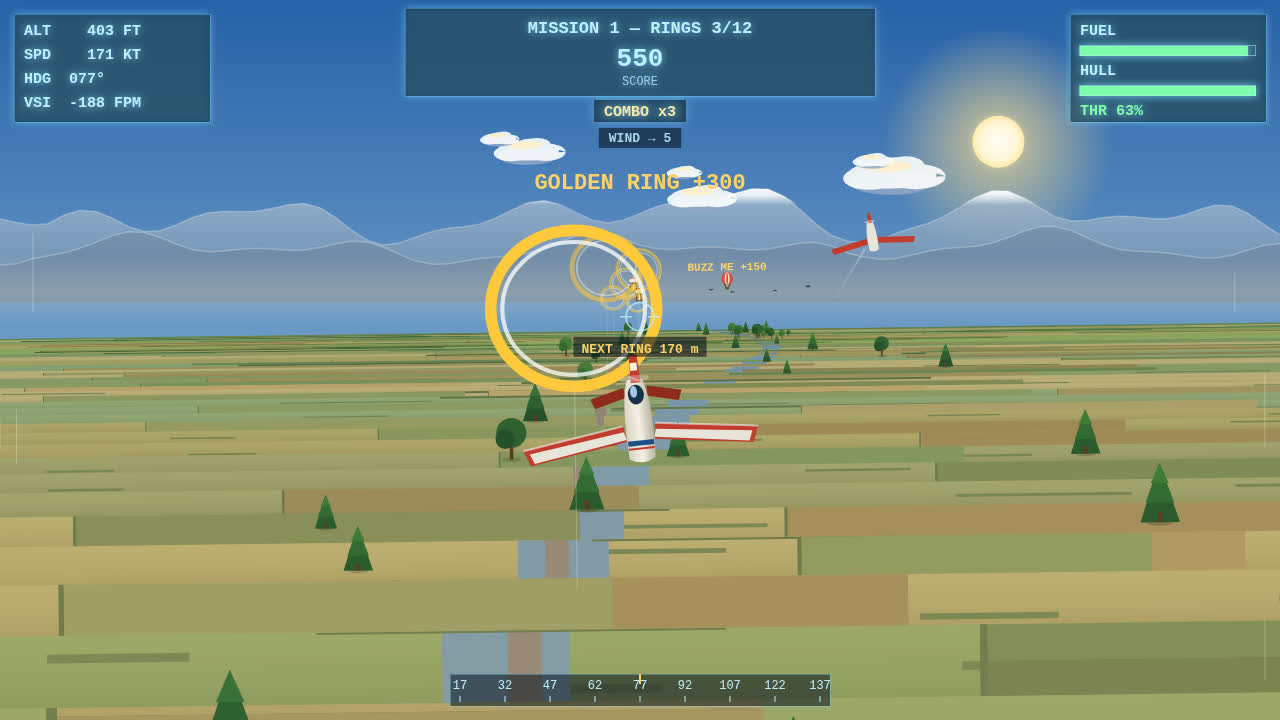
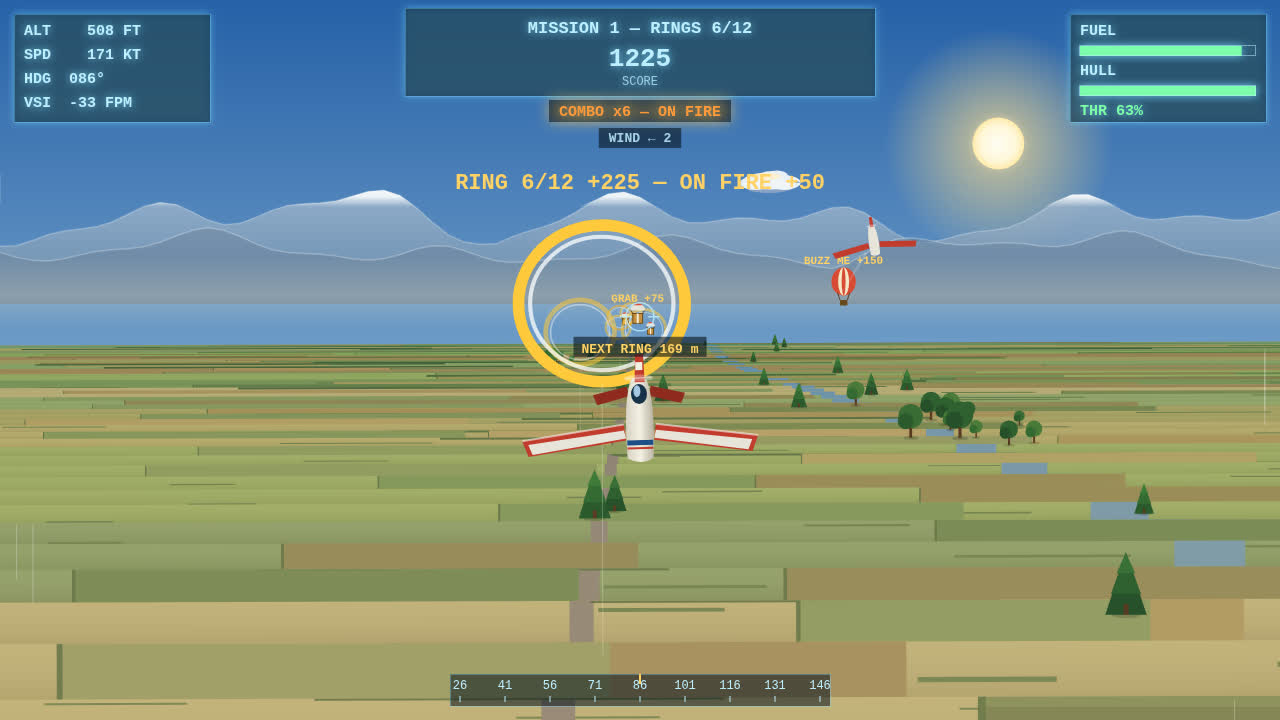
Sky Courier round 10: foreground texture + crate-visible cover shot + level title plane
- Near-ground texture scales with visible band height: furrow count
  grows with visH (was a fixed 3 rows at fractions of the full band
  height, below the frame on tall bands) and a seeded speckle pass
  fills tall bands, so the foreground field reads as farmland instead
  of one flat pale slab (the biggest empty area in every shot).
- Near asphalt aggregate: count scales with visH (up to 14), dashes
  placed inside the visible strip, bigger and darker — the first pass
  (5 faint dashes spread across the whole strip width) still left the
  near asphalt reading as flat grey; verified with a 2x crop.
- Cover shot now shows the sky crates: play staging stops when a
  crate is 100-350 m ahead (crate past the next ring sits 220-250 m
  ahead at the ring stop) and the GRAB +75 label shows out to ~300 m
  (was ~115 m), so the round-9 gameplay is visible in the frame.
- Title plane flies level (was banked ~13 deg by the demo weave).
Render-only; staged playtests unchanged 7551-7976 across 20 seeds.

diff --git a/game/src/render.js b/game/src/render.js
@@ -259,7 +259,10 @@ export function createRenderer(canvas) {
     const scale = Math.min(w, h) / 720;
     ctx.save();
     ctx.translate(cx, cy);
-    ctx.rotate(-state.roll * 0.85);
+    // On the title screen the plane flies level and proud: the staging
+    // flies a demo weave (roll up to ±0.5), so the hero plane read as
+    // tipping over in the title shot.
+    ctx.rotate(-(screen === SCREEN_TITLE ? 0 : state.roll) * 0.85);
     ctx.scale(scale, scale);
     // Wings (rear view, slight dihedral).
     ctx.fillStyle = '#c23b2e';
@@ -634,13 +637,32 @@ export function createRenderer(canvas) {
         ctx.fillStyle = bg;
         ctx.fillRect(-40, topY, w + 80, bandH);
         // Plough furrows: short dashes across the field, so the ground
-        // reads as worked farmland instead of flat paint.
+        // reads as worked farmland instead of flat paint. The count
+        // scales with the VISIBLE band height: the old fixed 3 dashes
+        // left the near bands — the biggest area in every shot — almost
+        // empty, because a tall band's rows sat at fractions of its
+        // full height, below the frame.
         if (!onRunway && !crossRoad && bandH > 4) {
+          const visH = Math.max(0, Math.min(bandH, h - topY));
+          const furCount = Math.min(9, 3 + Math.floor(visH / 55));
           ctx.fillStyle = mix3([60, 100, 58], SKY_HORIZON, haze * 0.7);
-          for (let k = 0; k < 3; k += 1) {
+          for (let k = 0; k < furCount; k += 1) {
             const fx = hash(i * 31 + k * 17 + 2) * w;
             const fl = w * (0.05 + hash(i * 13 + k * 7) * 0.09);
-            ctx.fillRect(fx, topY + bandH * (0.25 + k * 0.25), fl, Math.max(1, bandH * 0.12));
+            ctx.fillRect(fx, topY + visH * ((k + 0.5) / furCount), fl, Math.max(1, visH * 0.09));
+          }
+          // Field speckle: short darker marks scattered through a tall
+          // band's visible height — the foreground field texture the
+          // furrows alone could not give. Seeded per band/row, so the
+          // same band always looks the same.
+          if (bandH > 50) {
+            const speckCount = Math.min(10, Math.floor(visH / 40));
+            ctx.fillStyle = 'rgba(52,88,50,0.14)';
+            for (let k = 0; k < speckCount; k += 1) {
+              const spx = hash(i * 101 + k * 37 + 5) * w;
+              const spw = w * (0.02 + hash(i * 73 + k * 11) * 0.05);
+              ctx.fillRect(spx, topY + visH * ((k + 0.3) / speckCount), spw, Math.max(2, visH * 0.03));
+            }
           }
         }
         // The river winds across the farmland (ends before the airfield).
@@ -746,15 +768,21 @@ export function createRenderer(canvas) {
           // Asphalt aggregate: short subtle dashes across the strip,
           // seeded per band, so the near asphalt has texture even where
           // the tyre marks have diverged off-screen and the centreline
-          // is in a gap. Placed inside the VISIBLE part of the band —
-          // a tall near band runs far below the frame.
+          // is in a gap. The count scales with the VISIBLE band height
+          // and the dashes sit inside the VISIBLE strip: the old fixed
+          // 5 faint dashes, spread across the whole strip width (wider
+          // than the screen up close), vanished on the near asphalt,
+          // whose bottom half read as one flat grey slab.
           if (bandH > 8) {
-            const visH = Math.min(bandH, h - topY);
-            ctx.fillStyle = 'rgba(52,52,60,0.16)';
-            for (let k = 0; k < 5; k += 1) {
-              const ax = cx - half + hash(i * 97 + k * 19) * half * 2;
-              const aw = Math.min(26, Math.max(4, half * 0.06));
-              ctx.fillRect(ax, topY + visH * (0.15 + k * 0.17), aw, Math.min(6, Math.max(1.5, bandH * 0.03)));
+            const visH = Math.max(0, Math.min(bandH, h - topY));
+            const aggCount = Math.min(14, 5 + Math.floor(visH / 22));
+            const stripL = Math.max(cx - half, -20);
+            const stripR = Math.min(cx + half, w + 20);
+            ctx.fillStyle = 'rgba(52,52,60,0.32)';
+            for (let k = 0; k < aggCount; k += 1) {
+              const ax = stripL + hash(i * 97 + k * 19) * Math.max(1, stripR - stripL);
+              const aw = Math.min(60, Math.max(8, half * 0.09));
+              ctx.fillRect(ax, topY + visH * ((k + 0.5) / aggCount), aw, Math.min(9, Math.max(2.5, visH * 0.04)));
             }
           }
           // Tyre marks: two dark wheel tracks down the strip, so the
@@ -1249,7 +1277,7 @@ export function createRenderer(canvas) {
         // A gentle bob, deterministic in time, so the crate reads as
         // floating rather than nailed to the sky.
         const sy = horizonY + (camDepth * (camAlt - c.alt)) / d + Math.sin(state.time * 1.2 + c.z) * 2;
-        const s = Math.max(3, (camDepth * 2.2) / d);
+        const s = Math.max(3, (camDepth * 2.6) / d);
         if (sx < -80 || sx > w + 80 || sy < -60 || sy > h + 40) continue;
         if (!c.taken) {
           // A little parachute canopy over a wooden supply crate.
@@ -1278,7 +1306,10 @@ export function createRenderer(canvas) {
           ctx.strokeRect(sx - s, sy - s, s * 2, s * 2);
           ctx.fillStyle = 'rgba(255,255,255,0.85)';
           ctx.fillRect(sx - s * 0.2, sy - s, s * 0.4, s * 2);
-          if (s > 9) {
+          // The label shows out to ~300 m (s > 4): at the play-shot stop
+          // the next crate sits 220–250 m ahead, and the old threshold
+          // (s > 9, ~115 m) meant no crate ever read in the cover shot.
+          if (s > 4) {
             ctx.fillStyle = '#ffd166';
             ctx.font = `bold ${Math.max(11, Math.min(18, s * 0.5))}px ui-monospace, monospace`;
             ctx.textAlign = 'center';

diff --git a/game/src/shots.js b/game/src/shots.js
@@ -144,12 +144,22 @@ export function stageShot(name, world) {
   }
   if (name === 'play') {
     // Mid ring-run: stop with the next ring 140–170 m ahead, big in frame
-    // but whole, the plane banked toward it, a few rings already banked.
+    // but whole, the plane banked toward it, a few rings already banked —
+    // and a sky crate in readable range when one is still ahead, so the
+    // cover shot shows the crate gameplay (round 9's honest note: no
+    // crate was visible in the staged play shot — seed 7's crates sit
+    // 970–1690 m ahead at the old stop). A crate sits 80 m past a ring,
+    // so when the next ring is 140–170 m ahead the crate past it is
+    // 220–250 m ahead — readable now the label shows past ~300 m. If
+    // the run is past the last crate ring, take the ring framing.
     flyUntil(world, (s) => {
       const r = world.nextRing();
       if (!r || s.z < 800) return false;
       const d = r.z - s.z;
-      return d <= 170 && d >= 140;
+      if (d > 170 || d < 140) return false;
+      const c = world.nextSkyCrate();
+      if (c && c.z - s.z >= 100 && c.z - s.z <= 350) return true;
+      return s.z >= 2500;
     }, 60);
     return { screen: SCREEN_PLAY, best: world.state.score };
   }
